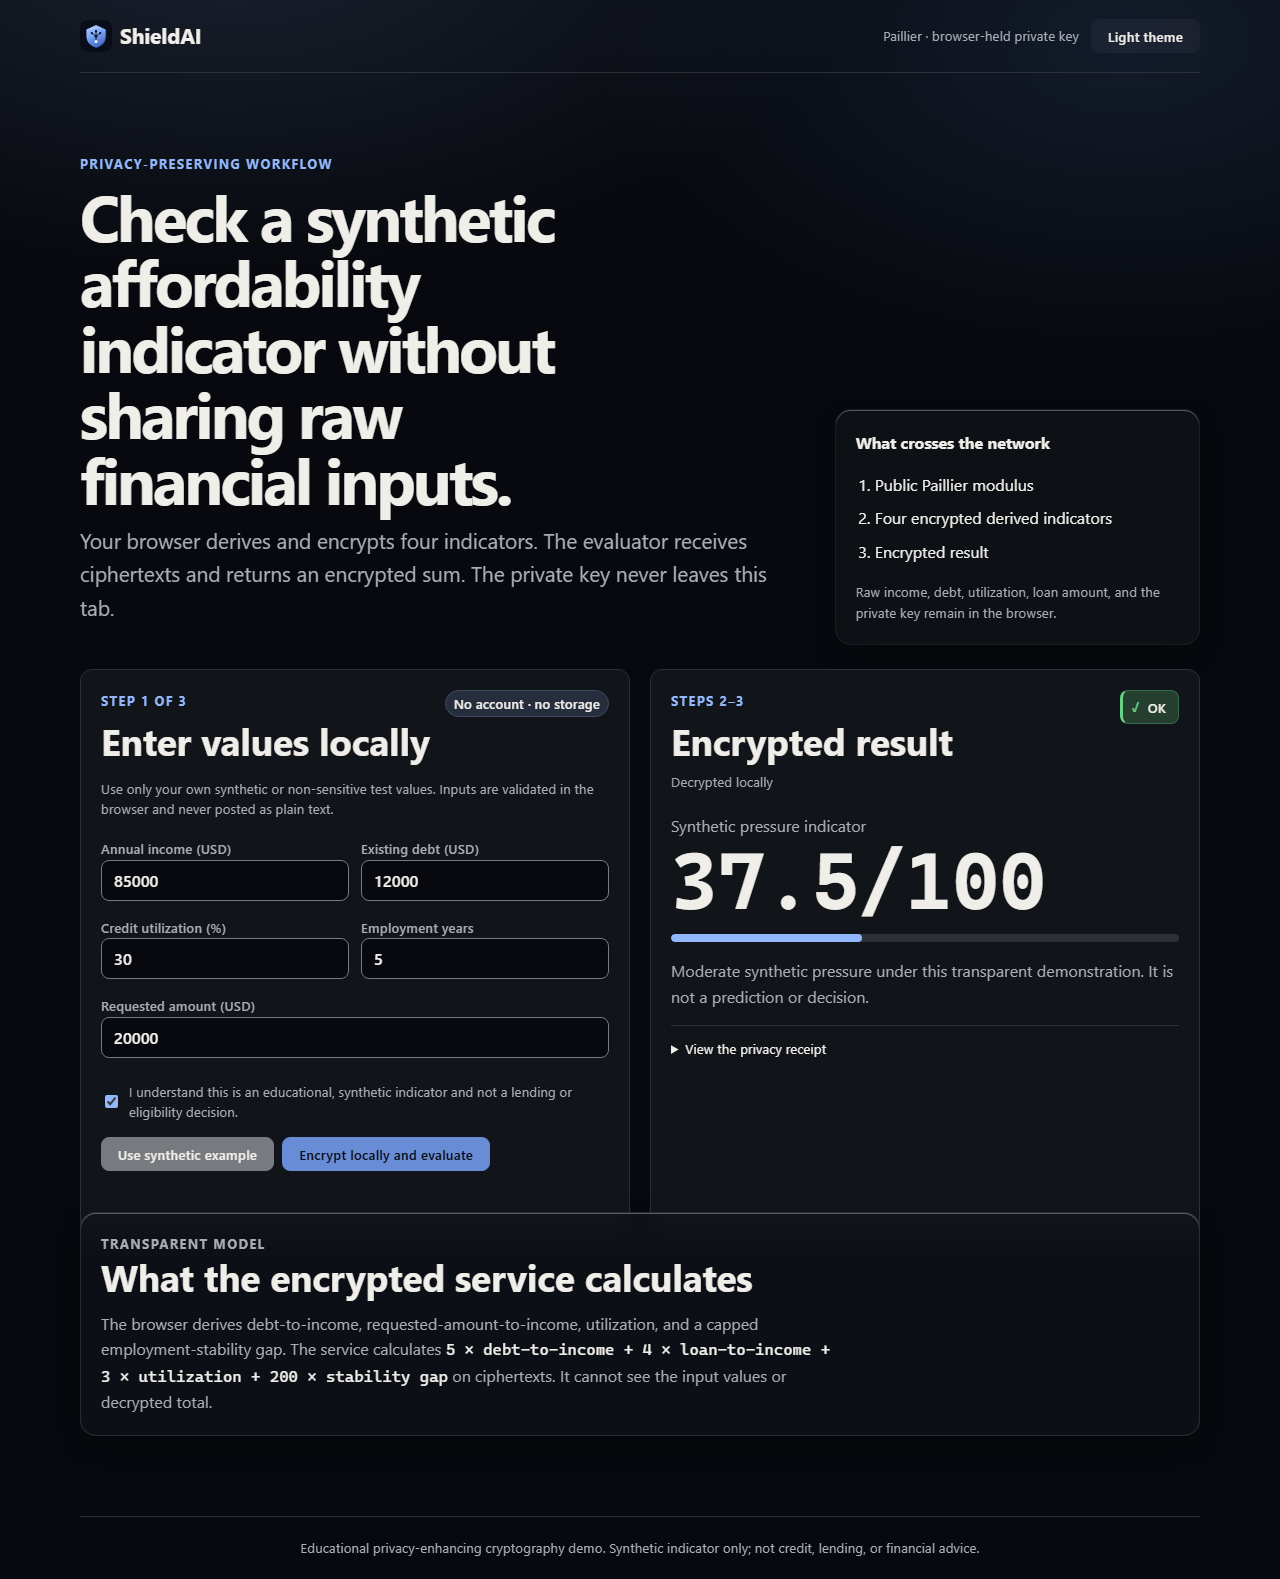
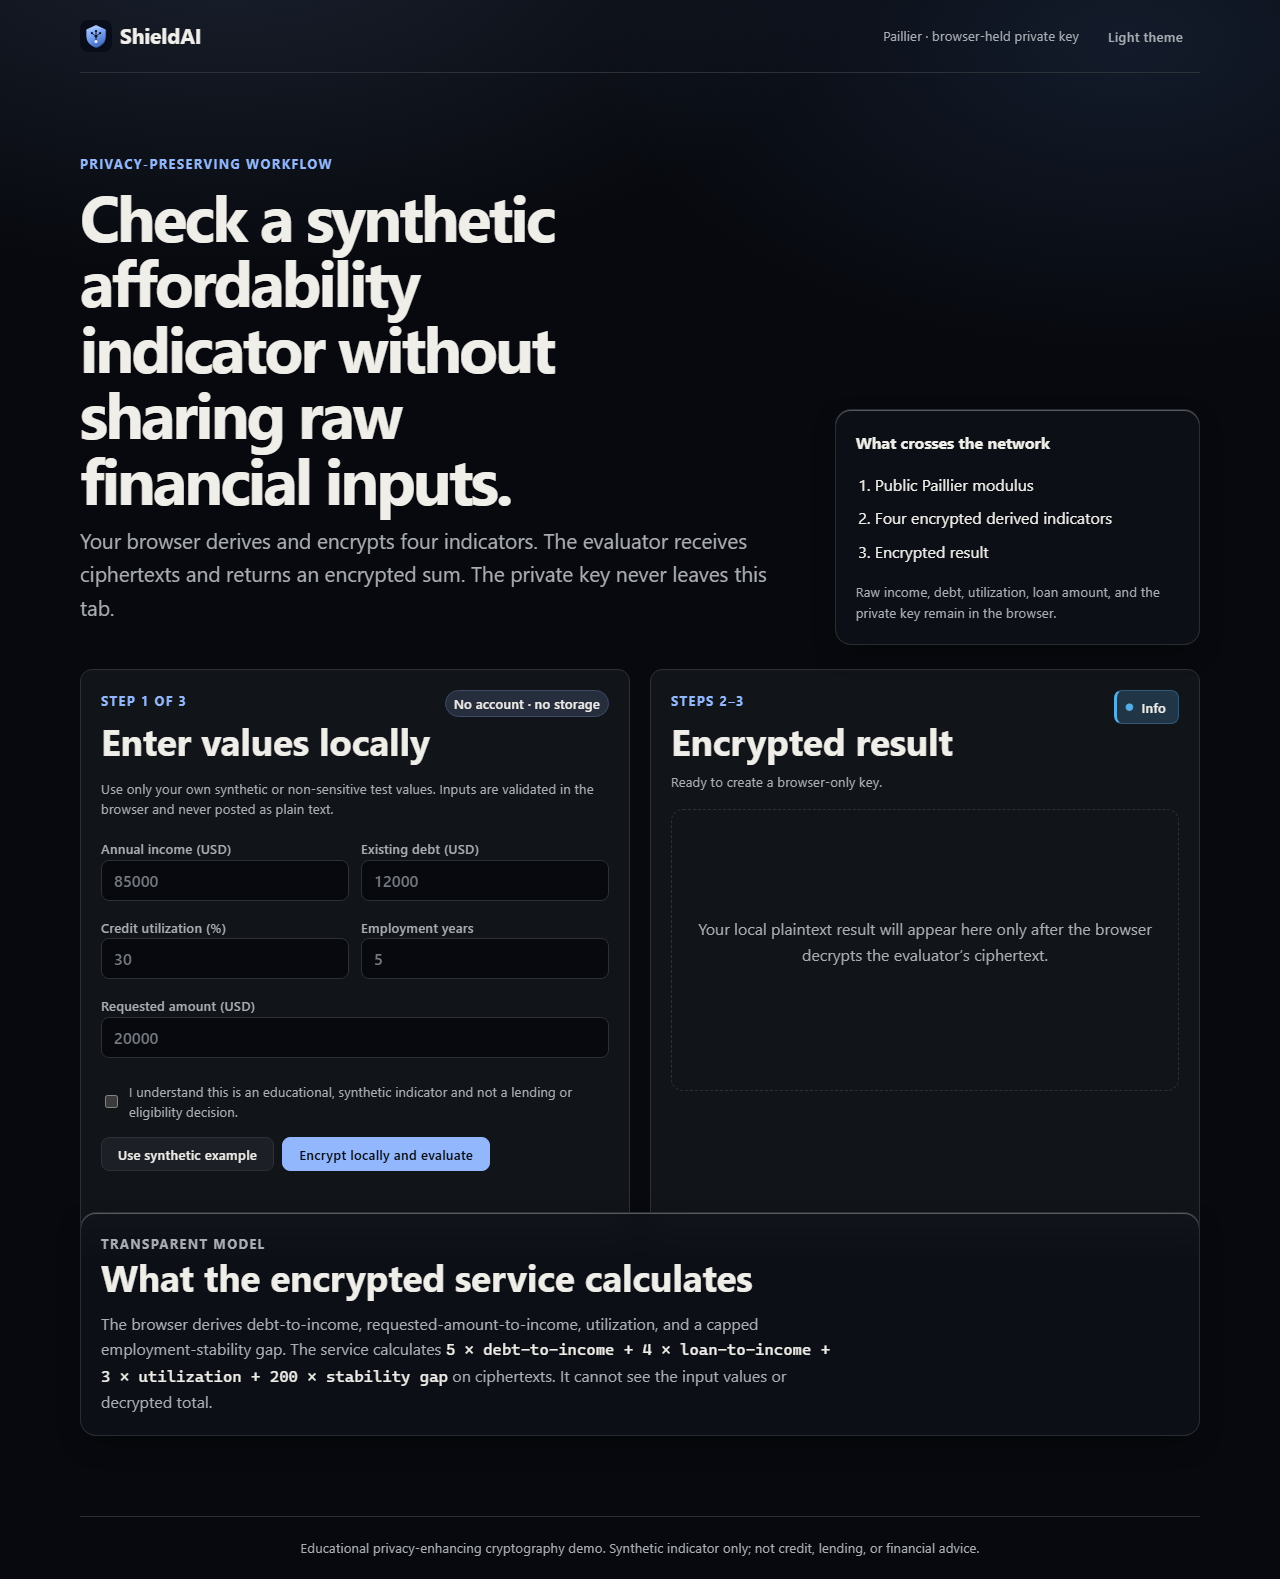
Fix mobile overflow in Linux CI

diff --git a/static/css/style.css b/static/css/style.css
@@ -137,6 +137,10 @@ h2 {
   justify-content: space-between;
   gap: var(--sp-3);
   margin-bottom: var(--sp-4);
+  min-width: 0;
+}
+.section-heading > * {
+  min-width: 0;
 }
 .section-heading h2 {
   margin-bottom: 0;
@@ -260,10 +264,20 @@ h2 {
   .hero,
   .workflow-grid,
   .fields {
-    grid-template-columns: 1fr;
+    grid-template-columns: minmax(0, 1fr);
   }
   .hero {
     gap: var(--sp-4);
+  }
+  .section-heading {
+    flex-wrap: wrap;
+  }
+  .section-heading .chip {
+    max-width: 100%;
+    white-space: normal;
+  }
+  .method-card code {
+    overflow-wrap: anywhere;
   }
   .fields label:last-child {
     grid-column: auto;

diff --git a/MEMORY.md b/MEMORY.md
@@ -35,5 +35,6 @@ Run `npm run check`, `npm run verify:load`, `npm audit --audit-level=high`, `pyt
 - Expanded browser verification from ten to sixteen groups and added bounded concurrency evidence.
 - Removed startup opacity animation so primary content paints immediately.
 - Added complete usage, testing, study, and AI context handoffs.
+- Fixed Linux CI's 320 px font-metric overflow by allowing dense section headings and chips to wrap; the browser workflow was repeated five times locally before republishing.
 
 Retired wizard/CSV/regression files remain tracked as historical, non-runtime material for compatibility and audit history. They are absent from the Docker image and must not be reconnected to the product path.
